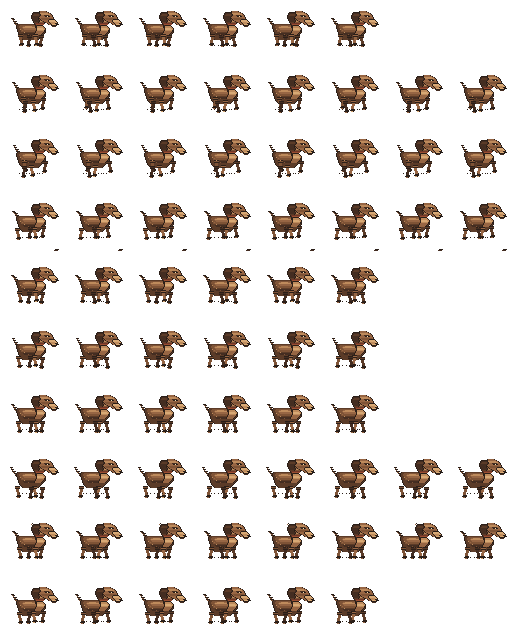
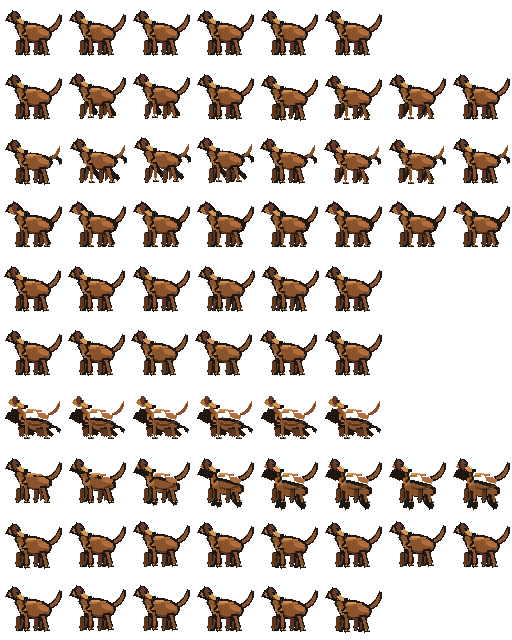
art: improve hound pixel anatomy

diff --git a/EFR_GAME_DESIGN.md b/EFR_GAME_DESIGN.md
@@ -2493,10 +2493,10 @@ SVGマスター全文をsaveへ保存しない。
 - 64×64の各フレームは、縮小表示でも「犬」であることを身体シルエットだけから判別できることを品質ゲートとする。
 - 品質改善時も64×64制作解像度、同一身体比率、同一パレット、アンチエイリアスなしを維持し、頭部・垂れ耳・犬型マズル・短い首・深い胸・腹部・骨盤・4本の脚・足先・尾の輪郭情報を優先する。既存の10モーション行・各行の正式フレーム数・8列×10行のシート構造を維持し、各非空フレームを64×64の直接ラスターとして構成する。各フレームは身体シルエットだけで犬と判別できることを正式な品質条件とする。
 - 特に頭部、垂れ耳、犬型マズル、鼻、短い首、深い胸、腹部、骨盤、前後4脚、足先、後方へ接続する尾を優先し、目・色・模様を犬種認識の代替にしない。
-- 頭部と胴体が一体化して見える、脚が棒状に見える、足先が消える、尾が身体から切れて見える、または猫・狐等の別の四足動物と同じシルエットになるフレームは完成扱いにしない。
+- 頭部と胴体が一体化して見える、脚が棒状に見える、前景・後景の脚が同じ位置へ重なって脚数を判別できない、足先が消える、尾が身体から切れて見える、または猫・狐等の別の四足動物と同じシルエットになるフレームは完成扱いにしない。
 - idleからrunまで同一の犬の身体比率を維持し、モーション差は脚、重心、頭部、尾の変化として表現する。
 - 色や目だけで犬らしさを成立させず、頭部形状、マズル、垂れ耳、胸部、四肢、足先、尾による身体シルエットを優先する。
-- 各モーションフレームは直接ラスターとして成立させ、単純な全身移動だけでなく脚、頭部、尾、重心の変化を画素単位で表現する。
+- 各モーションフレームは直接ラスターとして成立させ、単純な全身移動だけでなく、前景・後景の脚位置、足先の接地、頭部、尾、重心の変化を画素単位で表現し、4脚の存在を身体シルエットから読み取れる状態を維持する。
 - ゲーム内拡大はnearest-neighbor相当の整数ピクセル境界を保持する。
 - 64×64は制作・保存するPNGマスターの解像度であり、探索runtimeの表示サイズそのものを64pxへ固定する仕様ではない。既存ペットの個体サイズ・描画半径・一様scaleはそのまま維持する。
 - 歩行・走行・攻撃・被弾・ノックバック・ダウン・死亡・捕獲・特殊動作を、同一の64×64ドット絵キャラクターからフレーム単位で成立させる。
